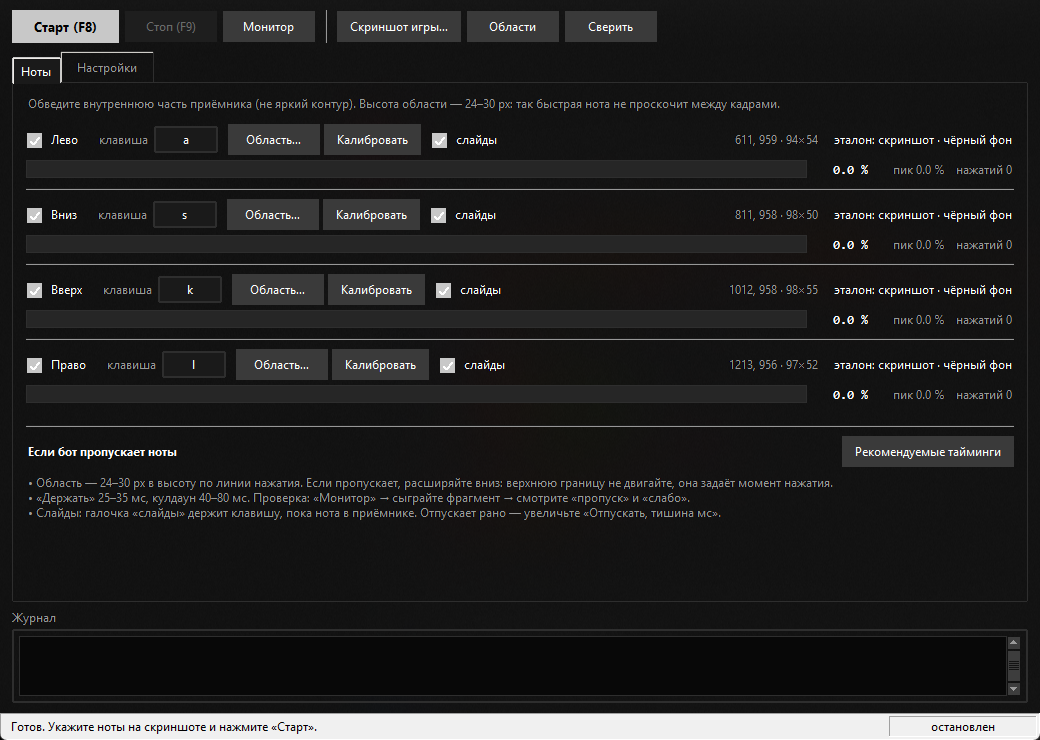
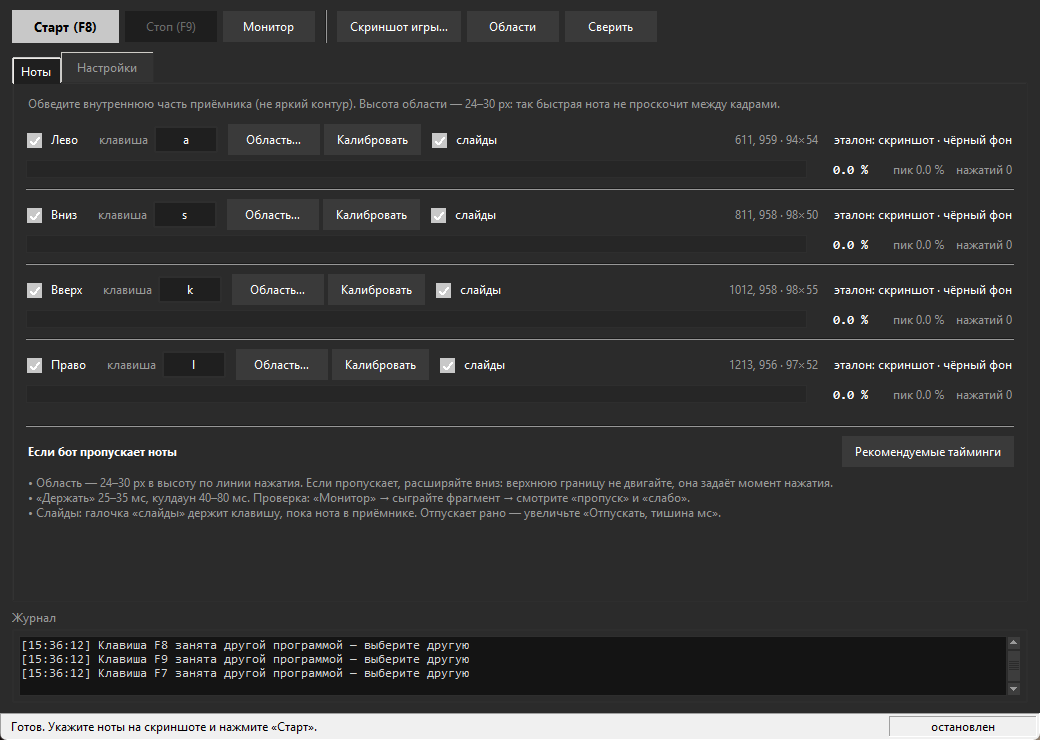
Fnf-bot 1.2.1
- переименование проекта в Fnf-bot (окно, exe, README, баннер)
- убран прозрачный акриловый фон: окно теперь с обычным серым фоном
- обновлены скриншоты интерфейса

diff --git a/fnfbot/gui.py b/fnfbot/gui.py
@@ -10,7 +10,7 @@ import tkinter as tk
 from tkinter import messagebox, ttk
 from typing import Dict, List, Optional
 
-from . import APP_DIR, RESOURCE_DIR, __version__, glass, theme
+from . import APP_DIR, RESOURCE_DIR, __version__, theme
 from .config import DIRECTIONS, DIR_LABELS, BotConfig
 from .engine import Engine
 from .hotkeys import HotkeyManager, parse_hotkey
@@ -22,7 +22,7 @@ from .shot_editor import ShotEditor, is_modifier, key_name_from_event
 class MainApp:
     def __init__(self, root: tk.Tk):
         self.root = root
-        root.title(f"FNF Pixel Player Bot {__version__}")
+        root.title(f"Fnf-bot {__version__}")
         root.geometry("1040x740")
         root.minsize(900, 640)
 
@@ -45,7 +45,6 @@ class MainApp:
 
         self._style()
         self._build()
-        self._glass = glass.enable(self.root)
         self._refresh_ui()
         self._start_hotkeys()
         self._tick()

diff --git a/fnfbot/theme.py b/fnfbot/theme.py
@@ -5,12 +5,10 @@ from __future__ import annotations
 import tkinter as tk
 from tkinter import ttk
 
-from . import glass
-
-BG = glass.KEY          # фон окна: прозрачный ключ, за ним — акрил Windows
-BG_ALT = glass.KEY      # панели тоже стеклянные
-BG_FIELD = "#1a1a1a"    # поля ввода — непрозрачные
-BG_LOG = "#080808"      # журнал
+BG = "#2b2b2b"          # фон окна: обычный серый, без прозрачности
+BG_ALT = "#333333"      # панели
+BG_FIELD = "#1f1f1f"    # поля ввода
+BG_LOG = "#141414"      # журнал
 FG = "#ffffff"          # основной текст
 FG_DIM = "#9a9a9a"      # второстепенный текст
 BORDER = "#2e2e2e"

diff --git a/fnfbot/__init__.py b/fnfbot/__init__.py
@@ -1,4 +1,4 @@
-"""FNF Pixel Player Bot — оверлейный бот-плеер для FNF (Roblox и не только).
+"""Fnf-bot — оверлейный бот-плеер для FNF (Roblox и не только).
 
 Работает без внедрения в игру: захватывает экран, ищет изменение пикселей
 в заданной области ноты и нажимает назначенную клавишу.
@@ -16,4 +16,4 @@ else:
 # Ресурсы, упакованные внутрь exe (иконка и т. п.).
 RESOURCE_DIR = getattr(sys, "_MEIPASS", APP_DIR)
 
-__version__ = "1.2.0"
+__version__ = "1.2.1"

diff --git a/main.py b/main.py
@@ -25,7 +25,7 @@ def enable_dpi_awareness() -> None:
 def set_app_id() -> None:
     """Отдельная иконка/группа на панели задач, а не «python.exe»."""
     try:
-        ctypes.windll.shell32.SetCurrentProcessExplicitAppUserModelID("FNF.PixelPlayerBot.1")
+        ctypes.windll.shell32.SetCurrentProcessExplicitAppUserModelID("Fnf.Bot.1")
     except Exception:
         pass
 

diff --git a/selftest.py b/selftest.py
@@ -582,7 +582,7 @@ def test_color_mode() -> None:
 
 
 def main() -> int:
-    print("FNF Pixel Player Bot — самопроверка\n")
+    print("Fnf-bot — самопроверка\n")
     test_detector()
     test_config_roundtrip()
     test_keys()

diff --git a/README.md b/README.md
@@ -1,8 +1,8 @@
-# FNF Pixel Player Bot
+# Fnf-bot
 
-![FNF Pixel Player Bot](hero.gif)
+![Fnf-bot](hero.gif)
 
-[**Скачать FNF-Pixel-Player-Bot.exe**](https://github.com/Dezigwer/fnf-roblox-player-bot/releases/latest)
+[**Скачать Fnf-bot.exe**](https://github.com/Dezigwer/Fnf-bot/releases/latest)
 · Windows, Python не нужен
 
 Оверлейный бот-плеер для FNF (включая Roblox-версии). **В игру ничего не внедряется**:
@@ -23,7 +23,7 @@
 
 ## Быстрый старт
 
-1. Запустите **`FNF-Pixel-Player-Bot.exe`** двойным кликом. Python и установка не нужны.
+1. Запустите **`Fnf-bot.exe`** двойным кликом. Python и установка не нужны.
 2. Запустите игру в **оконном или безрамочном** режиме на основном мониторе.
 3. Поставьте игру на паузу так, чтобы приёмники были видны, а нот на них не было.
 4. В боте нажмите **«Скриншот игры…»** → **«Сделать скриншот (3с)»** (окна бота спрячутся)
@@ -289,10 +289,9 @@
 
 ## Оформление
 
-* Фон окна — **ликвид-гласс**: DWM-акрил Windows 11 размывает то, что за окном,
-  а тема заливает фон прозрачным цветом-ключом. Текст, поля и кнопки остаются
-  непрозрачными, поэтому читаются чётко.
-* Палитра строго чёрно-белая: чёрный фон, серые кнопки, белый текст.
+* Фон окна — **обычный серый**, без прозрачности и размытия: окно не просвечивает
+  и не меняется при клике.
+* Палитра строго чёрно-серая: серый фон, тёмные поля, серые кнопки, белый текст.
   Акцентный синий не используется.
 * Снизу — **стандартная строка состояния Windows**: серая, с вдавленной рамкой
   и двумя панелями (сообщение / режим).
@@ -345,7 +344,7 @@
 ## Самопроверка
 
 ```bat
-FNF-Pixel-Player-Bot.exe --selftest
+Fnf-bot.exe --selftest
 ```
 
 Проверяет детектор, конфиг, scan-коды, горячие клавиши, независимость от раскладки,
@@ -359,7 +358,7 @@ FNF-Pixel-Player-Bot.exe --selftest
 ```bat
 run.bat                    :: создать .venv, поставить зависимости, запустить
 .venv\Scripts\python main.py --selftest
-build_exe.bat              :: собрать один FNF-Pixel-Player-Bot.exe
+build_exe.bat              :: собрать один Fnf-bot.exe
 ```
 
 `build_exe.bat` ставит PyInstaller и собирает onefile-версию с иконкой, после чего
@@ -371,7 +370,7 @@ build_exe.bat              :: собрать один FNF-Pixel-Player-Bot.exe
 ### Файлы
 
 ```
-FNF-Pixel-Player-Bot.exe   готовый бот (один файл, лежит в релизе)
+Fnf-bot.exe                готовый бот (один файл, лежит в релизе)
 main.py                    точка входа
 run.bat                    запуск из исходников
 build_exe.bat              сборка exe
@@ -386,7 +385,6 @@ fnfbot/
   capture.py               захват экрана (mss / PIL)
   detector.py              сравнение с эталоном
   holds.py                 логика удержания слайдов
-  glass.py                 ликвид-гласс (DWM-акрил + цвет-ключ)
   keys.py                  SendInput по scan-кодам
   hotkeys.py               глобальные горячие клавиши
   engine.py                поток бота: захват → детект → нажатие
